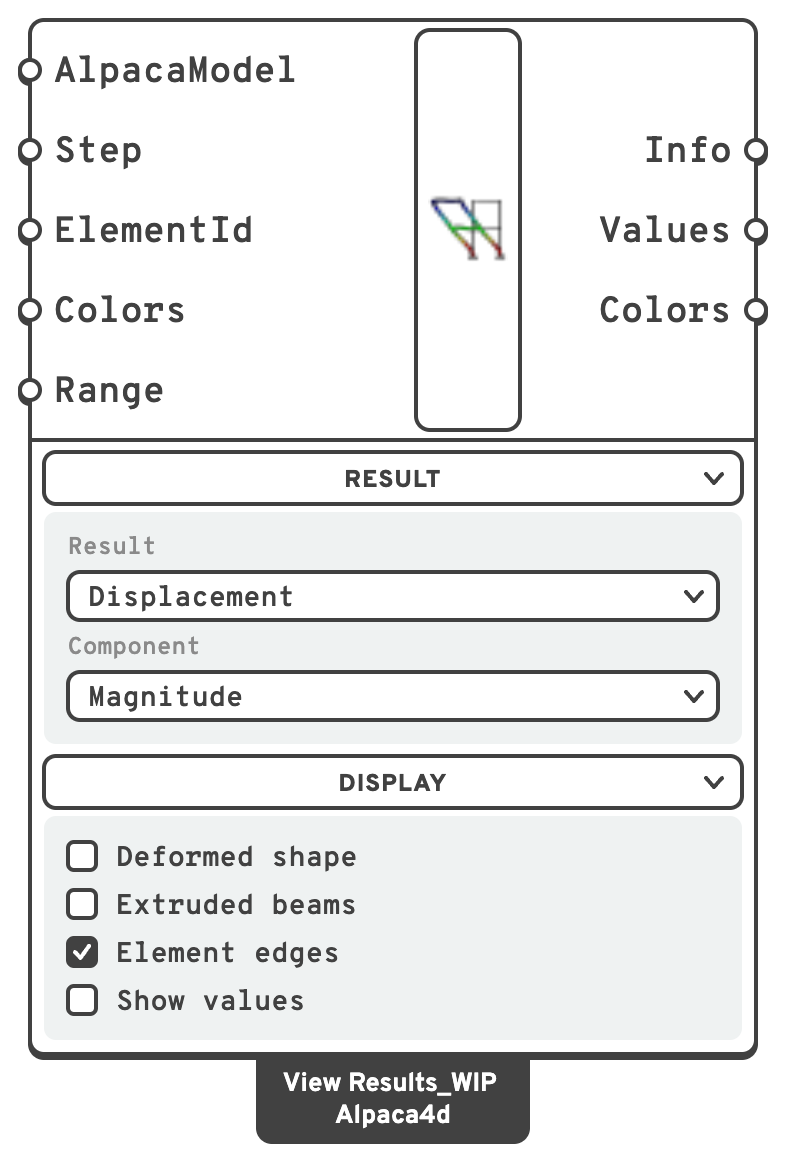
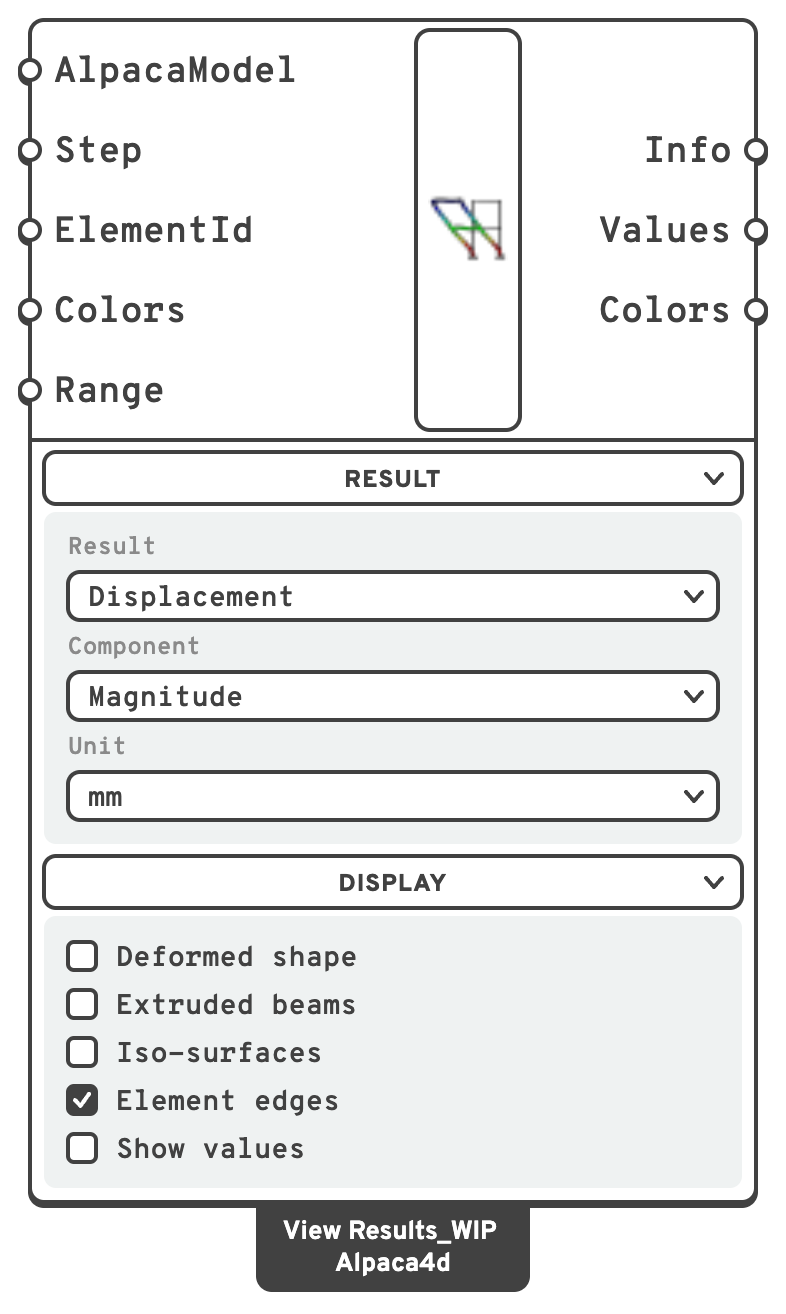
📝 Document Iso-surfaces in View Results and the band edges in Legend
How the bands are cut and coloured, what sets their number and width, what
is banded and what is not, and that Values then holds the band edges, which
Legend writes between its swatches. The View Results pictures now show the
Iso-surfaces checkbox, and the Unit dropdown, which they were drawn before.

Changed region(s): [[0.0, 0.0, 0.9771, 0.988], [0.7634, 0.0926, 0.9771, 0.2779], [0.5496, 0.1235, 0.6412, 0.247]]

diff --git a/doc/basics/visualisation/view-results.md b/doc/basics/visualisation/view-results.md
@@ -19,7 +19,7 @@ the undeformed shape or the deformed one.
 | AlpacaModel | `AlpacaModel` | Model | — | The analysed model, from [Run Analysis](../analysis/run-analysis.md), [Natural Vibration](../analysis/natural-vibration.md) or [Linear Buckling](../analysis/linear-buckling.md). The results are read from the recorder file it points at. |
 | Step | `Step` | Integer | `0` | Which recorded step to draw, or which mode after a natural vibration or buckling analysis. |
 | ElementId | `ElementId` | Text (list) | *(empty)* | Draw only some elements' results: an ElementId (`MyBeam_3`), a wildcard over them (`MyBeam*`, `Col_?`), an element tag (`47`) or a regular expression (`regex:^Col`), mixed freely. What is left out is greyed rather than hidden. Empty draws them all. |
-| Colors | `Colors` | Colour (list) | Turbo | The gradient to colour with, from the low end to the high. Connect [Colors](colors.md) for a ready-made one. Beam force diagrams ignore it and use the colour that belongs to the force. |
+| Colors | `Colors` | Colour (list) | Turbo | The gradient to colour with, from the low end to the high. Connect [Colors](colors.md) for a ready-made one. With **Iso-surfaces** on, each colour is one band of values. Beam force diagrams ignore it and use the colour that belongs to the force. |
 | Range | `Range` | Domain | *(empty)* | The range the gradient is stretched over, in the unit picked under **Unit**. Left empty it fits what is drawn, which makes two steps impossible to compare: set it to compare them. |
 
 ### Outputs
@@ -27,7 +27,7 @@ the undeformed shape or the deformed one.
 | Name | Nick | Type | Description |
 | --- | --- | --- | --- |
 | Info | `Info` | Text | What is drawn, the unit it is in, and the range it spans — `Displacement - Uz [mm], step 0, min -12.3, max 0`. |
-| Values | `Values` | Number (list) | The value each colour stands for, one per colour of **Colors**, from the low end to the high — over **Range** when it is set — in the unit picked under **Unit**. Feed it to the **Data** input of [Legend](legend.md). |
+| Values | `Values` | Number (list) | The value each colour stands for, one per colour of **Colors**, from the low end to the high — over **Range** when it is set — in the unit picked under **Unit**. With **Iso-surfaces** on, the edges of the bands instead, one more than there are colours. Feed it to the **Data** input of [Legend](legend.md). |
 | Colors | `Colors` | Colour (list) | The gradient used. Feed it to the **Colors** input of Legend, so the legend and the model agree. |
 
 ### Result menu
@@ -82,6 +82,7 @@ How to draw it. The menu starts folded; click its header to unfold it.
 | Animate | off | Sweeps the deformation scale from the slider's least value to its greatest and back, moving the slider with it. It reads *Stop animation* while it runs. | With **Deformed shape** on |
 | Extruded beams | off | Draws each beam as its cross-section, coloured by the result. | Always |
 | Diagram and arrow scale | `1`, from 0 to 20 | Stretches the beam force diagrams and the reaction arrows. | For *Beam forces* and *Reactions* |
+| Iso-surfaces | off | Colours in bands — one flat colour per range of values — instead of a smooth gradient. See [Iso-surfaces](#iso-surfaces). | For every result but *Beam forces* |
 | Element edges | on | Draws the edges of the shell, solid and extruded beam elements. | Always |
 | Show values | off | Writes values on the model, in the unit picked, to four significant figures: each beam's largest, at the tip of its diagram for beam forces; each shell or solid element's at its centre; each reaction at its arrow. | Always |
 | Value text size | `0.5`, from 0.05 to 5 | The height of those values, in model units. | With **Show values** on |
@@ -110,6 +111,28 @@ of [Beam Forces](../results/beam-forces.md).
 
 **Extruded beams** draws each beam as its cross-section, on the deformed shape too, coloured by
 whatever result is picked.
+
+### Iso-surfaces
+
+With **Iso-surfaces** ticked, the range is cut into as many equal bands as there are colours in
+**Colors**, and everything in a band is drawn in that band's colour, flat. Where the value
+crosses from one band into the next, the element is cut along the line where it does, so the
+bands meet in a sharp edge across the elements rather than blending into each other. It reads
+like a contour map: which parts are over a value, and where the boundary runs, is plain at a
+glance.
+
+- **The number of bands is the number of colours.** [Colors](colors.md) gives ten; give
+  **Colors** a list of your own for more or fewer.
+- **Range** sets the bands as it sets the gradient: give it `0 to 10` with ten colours and each
+  band is one unit wide.
+- Anything below the range is in the first band, and anything above it in the last.
+- Shells, solids, beams — lines or extruded — and reaction arrows are all banded. *Beam forces*
+  is not: its diagrams take the colour of the force, not the gradient.
+- **Element edges** still draws the elements' own edges, not the cuts between bands.
+
+**Values** then holds the edges of the bands, one more than there are colours, and
+[Legend](legend.md) wired to it writes them on the lines between its swatches, so each swatch
+reads as the band from one label to the next.
 
 ## 🔁 Instead of the old view components
 

diff --git a/doc/basics/visualisation/legend.md b/doc/basics/visualisation/legend.md
@@ -13,7 +13,7 @@ Draws a fixed on-screen colour scale — the key that makes a contour readable.
 | Name | Nick | Type | Default | Description |
 | --- | --- | --- | --- | --- |
 | Title | `Title` | Text | *(empty)* | Heading above the scale. Put the quantity and its unit here — `mxx [kN·m/m]`. |
-| Data | `Data` | Number (list) | *(empty)* | Numbers the labels run from the smallest to the largest of — the **Values** output of [View Results](view-results.md). To label a range of your own, give its two ends. |
+| Data | `Data` | Number (list) | *(empty)* | Numbers the labels run from the smallest to the largest of — the **Values** output of [View Results](view-results.md). To label a range of your own, give its two ends. One value more than there are colours labels the edges between the swatches instead of the swatches. |
 | Colors | `Colors` | Colour (list) | *Turbo* | The gradient, from the low end to the high — the **Colors** output of View Results. |
 | Position | `Pos` | Integer | `0` | `0` left, `1` right, `2` bottom centre. |
 | Scale | `Scale` | Number | `1.5` | Size multiplier. Values at or below zero fall back to `1.5`. The legend shrinks below it where it would not fit the viewport. |
@@ -36,6 +36,10 @@ The legend does **not** read [View Results](view-results.md) — it reads whatev
 Wire the **Values** and **Colors** outputs of View Results into **Data** and **Colors**, and
 the two stay in step: **Values** holds the value each colour stands for, over the **Range**
 you gave View Results when you gave one.
+
+With **Iso-surfaces** on in View Results, **Values** holds the edges of its bands — one value
+more than there are colours — and the legend writes them on the lines between its swatches, so
+each swatch reads as the band from the label above it to the label below.
 
 If **Data** comes from somewhere else, such as a [Results](../results/README.md) component,
 give the legend the same **Colors** as the contour, and if you fixed a **Range** there, give
